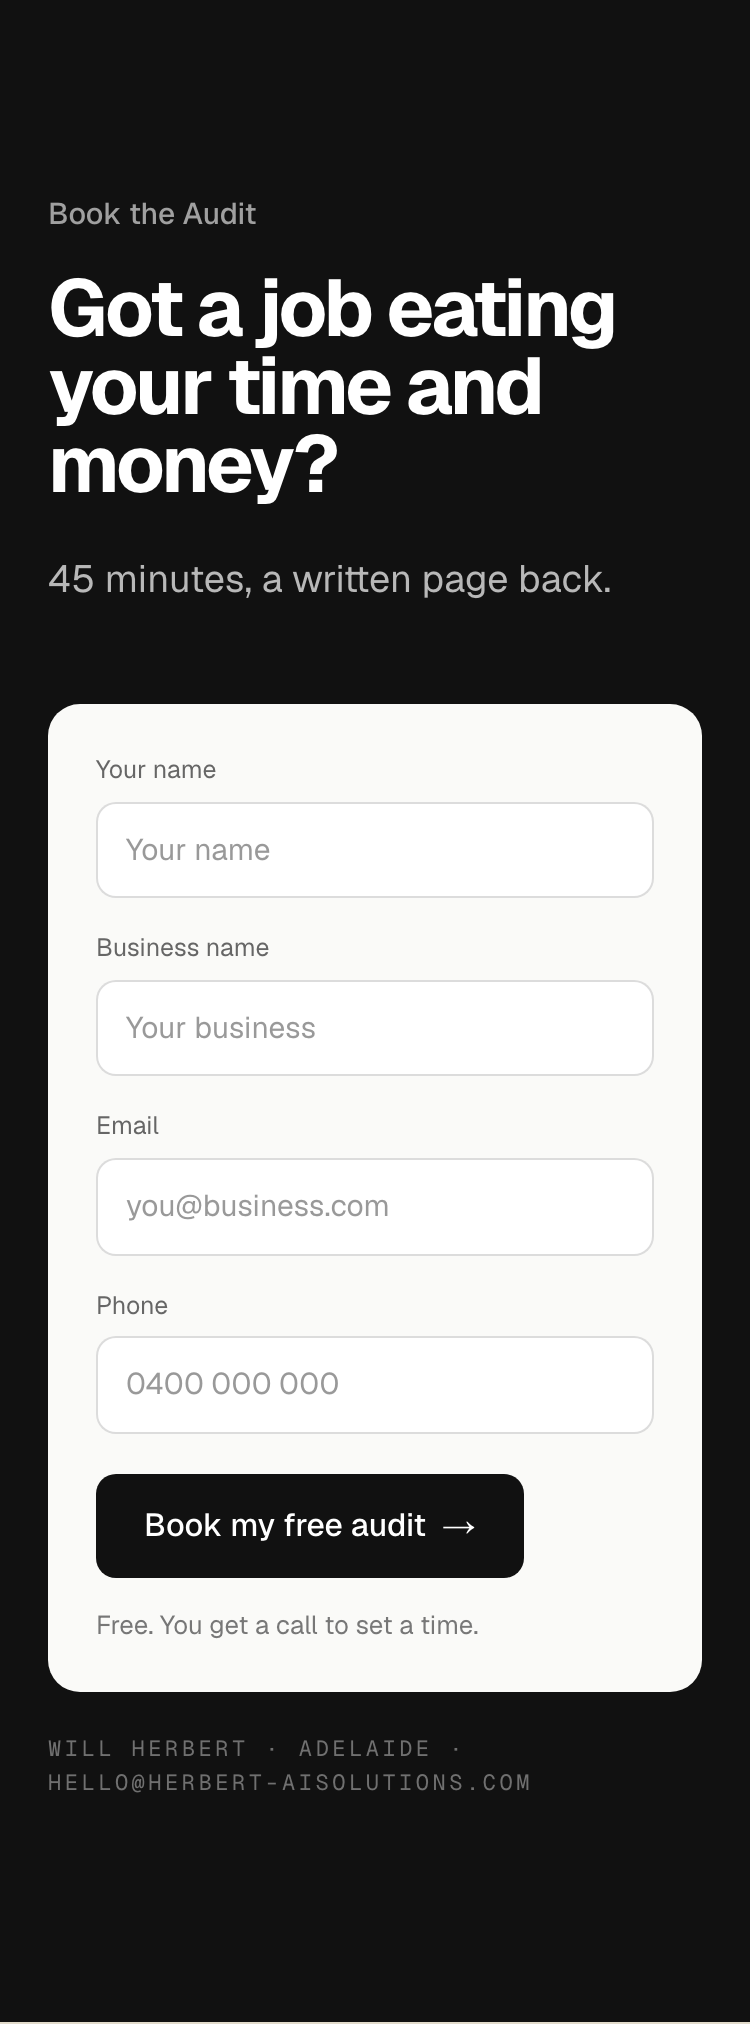
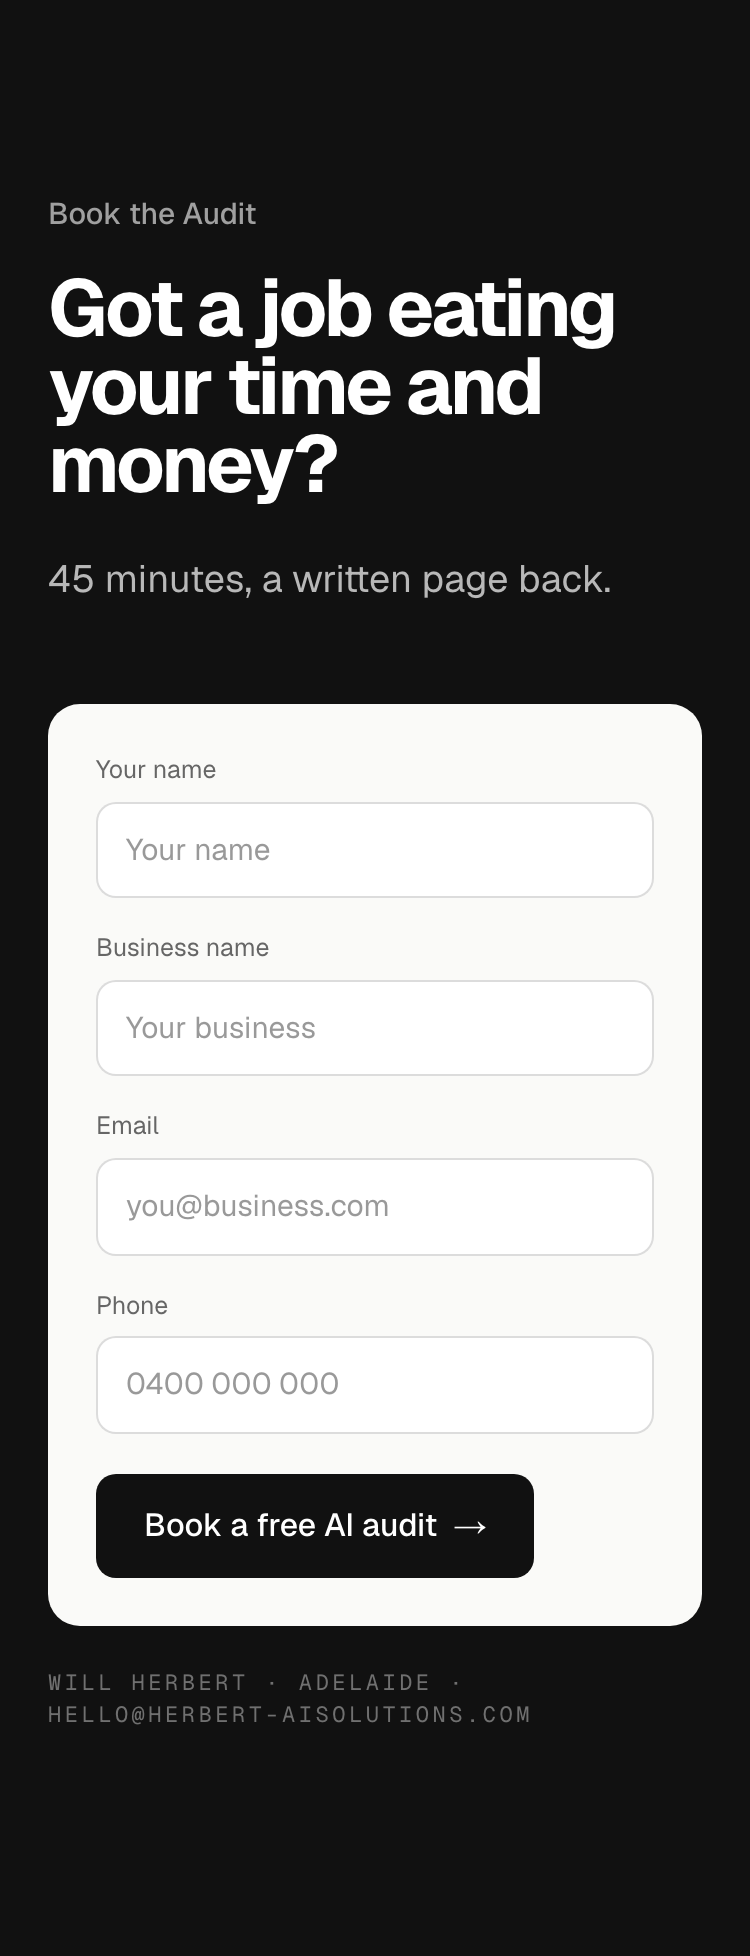
book the audit: the hero's button words, no small print; phase 3 done, every homepage section detailed

diff --git a/herbertai-website/src/app/components/site/AuditForm.js b/herbertai-website/src/app/components/site/AuditForm.js
@@ -10,6 +10,8 @@ import SourceFields from '../SourceFields'
 // page has its own design pass; look="paper" is the "Runs itself" charter card
 // on the homepage. `message` adds the required "job everyone hates doing" box
 // (/pilot asks it; the homepage keeps to four fields).
+// The homepage button uses the hero's words and carries no small print (Will,
+// 20 Oct 2026: "1, remove the 'free, you get a call to set a time'").
 
 const AUTO_REPLY = `Hi, Will here from Herbert AI.\n\nThanks for the details. I'll give you a call today to set a time for your audit. Forty five minutes, no preparation needed, and the written page follows within two business days.\n\nIf another annoying job comes to mind before then, just reply to this email.\n\nWill Herbert\nHerbert AI · Adelaide`
 
@@ -31,8 +33,8 @@ const LOOKS = {
     input: 'w-full px-3.5 py-3 bg-white border border-[#111]/15 rounded-[10px] text-[15px] text-[#111] placeholder:text-[#999] focus:border-[#111] focus:outline-none transition-colors',
     button: 'mt-5 inline-flex items-center gap-2 bg-[#111] text-white rounded-[10px] px-6 py-3.5 text-[16px] font-medium hover:bg-[#2a2a2a] transition-colors',
     note: 'mt-3.5 text-[13px] text-[#777]',
-    cta: 'Book my free audit',
-    small: 'Free. You get a call to set a time.',
+    cta: 'Book a free AI audit',
+    small: null,
   },
 }
 
@@ -85,7 +87,7 @@ export default function AuditForm({ source = '/pilot', look = 'pilot', message =
       <button type="submit" className={L.button}>
         {L.cta} <span aria-hidden>&rarr;</span>
       </button>
-      <p className={L.note}>{L.small}</p>
+      {L.small && <p className={L.note}>{L.small}</p>}
     </form>
   )
 }

diff --git a/herbertai-website/docs/design/design-pass-site-2026-09.md b/herbertai-website/docs/design/design-pass-site-2026-09.md
@@ -25,8 +25,8 @@ done. Updated in the same commit as the work.
 | 0. Charter | [x] | `CHARTER.md`, rewritten 22 Sep 2026 around "Runs itself" |
 | 1. Concept | [x] | "Runs itself" picked over "Now hiring", 22 Sep 2026 |
 | 2. Skeleton | [x] | Settled 14 Oct 2026; seven sections from 15 Oct (The Work folded into Operating Systems) |
-| 3. Sections | [~] | Book the Audit built 20 Oct, details pass under way; then phase 3 is done |
-| 4. Whole page | [ ] | |
+| 3. Sections | [x] | All seven sections picked, built and detailed; Book the Audit done 20 Oct 2026 |
+| 4. Whole page | [ ] | Next: rhythm, spacing, transitions, repeated words, motion level |
 | 5. Phones | [~] | AI Employees, Operating Systems and Products have phone designs (Products signed off 19 Oct); the rest unchecked as phone designs |
 | 6. Words and claims | [~] | Figures framed as worked examples with no labels; "Herbert Reach" settled 17 Oct (registers clear; always in full, since bare REACH is a live mark); "Herbert OS" still needs its checks; "See Herbert Reach" goes to the example page |
 | 7. Other pages | [ ] | Industry pages on the new slugs, the AI Employees page, a Herbert Reach page, pricing, about |
@@ -42,7 +42,7 @@ Phase 3, section by section (facts, options, pick, build, details):
 | 4. Operating Systems | [x] | [x] | [x] | [x] | [x] | Value model 15 Oct; details 16 and 17 Oct; phone version on phones |
 | 5. Products | [x] | [x] | [x] | [x] | [x] | Six details, 19 Oct 2026: Will’s line, his story as the facts, the full-product dashboard, In development in place of the note and link, the full-product phone version |
 | 6. Who Builds It | [x] | [x] | [x] | [x] | [x] | Three details, 19 Oct 2026: said flat under Founder, no photo; the link to About and the phone layout kept |
-| 7. Book the Audit | [x] | [x] | [x] | [x] | [~] | Built 20 Oct: the form on the homepage, shared with /pilot; details 1 and 2 of 4 applied (Will’s heading, one line in place of the facts), 3 and 4 (the form’s words, the phone) next |
+| 7. Book the Audit | [x] | [x] | [x] | [x] | [x] | Four details, 20 Oct 2026: Will’s heading, one line for the facts, the hero’s button words and no small print, the phone kept |
 
 ## [~] M4.1 Whole-site decisions (options shown 16 Sep 2026)
 
@@ -1993,4 +1993,16 @@ same at the top and bottom of the page (recommended); 2 "Book my audit" with
 "Free. You get a call the same day."; 3 today’s button with "Free and no
 obligation. You get a call the same day." The phone layout as built at 375 and
 320: nothing cut off, no overflow (recommended: keep). Awaiting Will’s word.
+Will (20 Oct 2026): "1, remove the 'free, you get a call to set a time'".
+
+## [x] Book the Audit details, 3 and 4 of 4 (20 Oct 2026)
+
+Built: the homepage form’s button reads "Book a free AI audit", the hero’s
+words, and carries no small print (`AuditForm` look "paper"; /pilot keeps its
+own button and note, checked). The phone layout kept as built. Verified at
+1440, 1280, 375 and 320, motion on and off: no overflow, no errors; the
+section is 535px at 1440. Book the Audit is done, and with it phase 3: all
+seven homepage sections have been picked, built and through their details
+pass. Next: phase 4, the whole page (rhythm, spacing, transitions, repeated
+words, motion level).
 
